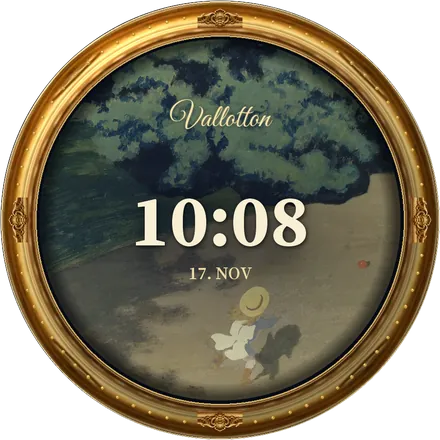
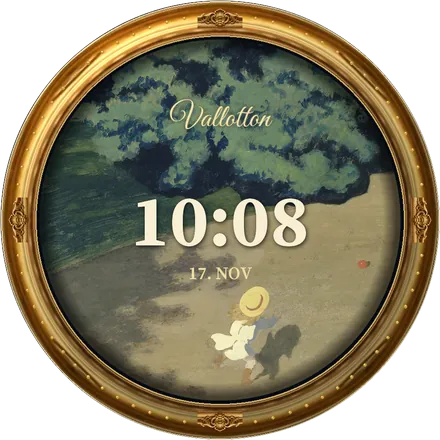
v10.33: selective light veil on watch-face hall images, ?v=1033

Changed region(s): [[0.1477, 0.2068, 0.8864, 0.8568], [0.65, 0.2364, 0.6795, 0.2659], [0.2068, 0.6795, 0.2364, 0.7091]]

diff --git a/index.html b/index.html
@@ -6,7 +6,7 @@
 <meta name="theme-color" content="#f6f3ee">
 <meta name="apple-mobile-web-app-capable" content="yes">
 <title>Meisterwerke – Malen nach Zahlen</title>
-<link rel="stylesheet" href="style.css?v=1032">
+<link rel="stylesheet" href="style.css?v=1033">
 <link rel="preload" href="fonts/GreatVibes.woff2" as="font" type="font/woff2" crossorigin>
 <link rel="icon" href="icons/icon-192.png" type="image/png">
 <link rel="manifest" href="manifest.webmanifest">
@@ -60,7 +60,7 @@
     <footer class="gfoot">
       <button id="srcBtn" class="linkbtn" data-i18n-html="sourcesBtn">Bildquellen &amp; Hinweise</button>
       <a class="linkbtn" href="privacy.html" data-i18n="privacyLink">Datenschutz</a>
-      <div class="credit"><span class="byline" data-i18n="byline">von Masilano</span><span class="ver" data-i18n="version">Testversion 10.32</span></div>
+      <div class="credit"><span class="byline" data-i18n="byline">von Masilano</span><span class="ver" data-i18n="version">Testversion 10.33</span></div>
     </footer>
   </div>
 </section>
@@ -541,9 +541,9 @@
   </div>
 </div>
 
-<script src="paintings.js?v=1032"></script>
-<script src="story.js?v=1032"></script>
-<script src="path-index.js?v=1032"></script>
+<script src="paintings.js?v=1033"></script>
+<script src="story.js?v=1033"></script>
+<script src="path-index.js?v=1033"></script>
 <script data-src="path-vangogh.js"></script>
 <script data-src="music-vangogh.js"></script>
 <script data-src="path-monet.js"></script>
@@ -635,12 +635,12 @@
 <script data-src="es-content.js"></script>
 <script data-src="fr-content.js"></script>
 <script data-src="it-content.js"></script>
-<script src="i18n.js?v=1032"></script>
-<script src="levels.js?v=1032"></script>
-<script src="music.js?v=1032"></script>
-<script src="zifferblaetter.js?v=1032"></script>
+<script src="i18n.js?v=1033"></script>
+<script src="levels.js?v=1033"></script>
+<script src="music.js?v=1033"></script>
+<script src="zifferblaetter.js?v=1033"></script>
 <script src="rankings.js?v=1029"></script>
-<script src="app.js?v=1032"></script>
+<script src="app.js?v=1033"></script>
 <script>
 /* v10.28: if a mixed cache leaves raw i18n keys in the UI, restore markup fallbacks. */
 (function(){

diff --git a/sw.js b/sw.js
@@ -1,5 +1,5 @@
 /* Meisterwerke – Malen nach Zahlen service worker. Generated by tools/build.py, do not edit by hand. */
-const VERSION = 'v1032';
+const VERSION = 'v1033';
 const CACHE = 'masilano-farben-' + VERSION;
 const SHELL = ["./", "achievements.css", "achievements.js", "app.js", "fonts/GreatVibes.woff2", "fonts/OFL-GreatVibes.txt", "i18n.js", "icon.svg", "icons/apple-touch-icon.png", "icons/icon-192.png", "icons/icon-512.png", "icons/icon-maskable-192.png", "icons/icon-maskable-512.png", "img/frame-baroque-gold-wide.webp", "img/frame-baroque-gold.webp", "img/frame-baroque-tile.webp", "img/frame-ivory-gold.webp", "img/paper.png", "index.html", "levels.js", "manifest.webmanifest", "music.js", "paintings.js", "path-ancher.js", "path-anker-p2.js", "path-anker.js", "path-blau.js", "path-calame.js", "path-cezanne-p2.js", "path-cezanne.js", "path-diday.js", "path-egner.js", "path-friedrich-p2.js", "path-friedrich.js", "path-giacometti.js", "path-hiroshige-p2.js", "path-hiroshige.js", "path-hodler-p2.js", "path-hodler.js", "path-hokusai-p2.js", "path-hokusai.js", "path-index.js", "path-klimt-p2.js", "path-klimt.js", "path-koller.js", "path-monet-p2.js", "path-monet-p3.js", "path-monet.js", "path-moser.js", "path-pissarro-p2.js", "path-pissarro.js", "path-rembrandt-p2.js", "path-rembrandt.js", "path-renoir-p2.js", "path-renoir.js", "path-schindler.js", "path-segantini.js", "path-sisley-p2.js", "path-sisley.js", "path-spitzweg.js", "path-turner-p2.js", "path-turner.js", "path-vallotton.js", "path-vangogh.js", "path-wisinger.js", "path-wolf.js", "path-zuend.js", "privacy.html", "rankings.js", "shop-config.js", "shop-res.js", "shop.css", "shop.js", "story.js", "style.css", "zifferblaetter.js"];
 const ASSET_Q = '?v=' + String(VERSION).replace(/^v/, '');

diff --git a/i18n.js b/i18n.js
@@ -15,7 +15,7 @@
       searchClear: 'Suche löschen',
       sourcesBtn: 'Bildquellen & Hinweise',
       privacyLink: 'Datenschutz',
-      version: 'Testversion 10.32',
+      version: 'Testversion 10.33',
       byline: 'von Masilano',
       back: 'Zurück',
       backGallery: 'Zurück zur Galerie',
@@ -267,7 +267,7 @@
       searchClear: 'Clear search',
       sourcesBtn: 'Picture sources & notes',
       privacyLink: 'Privacy',
-      version: 'Test version 10.32',
+      version: 'Test version 10.33',
       byline: 'by Masilano',
       back: 'Back',
       backGallery: 'Back to the gallery',
@@ -519,7 +519,7 @@
       searchClear: "Borrar búsqueda",
       sourcesBtn: "Fuentes e indicaciones",
       privacyLink: "Privacidad",
-      version: "Versión de prueba 10.32",
+      version: "Versión de prueba 10.33",
       byline: "de Masilano",
       back: "Atrás",
       backGallery: "Volver a la galería",
@@ -771,7 +771,7 @@
       searchClear: "Effacer la recherche",
       sourcesBtn: "Sources et notes",
       privacyLink: "Confidentialité",
-      version: "Version d’essai 10.32",
+      version: "Version d’essai 10.33",
       byline: "par Masilano",
       back: "Retour",
       backGallery: "Retour à la galerie",
@@ -1023,7 +1023,7 @@
       searchClear: "Cancella la ricerca",
       sourcesBtn: "Fonti e note",
       privacyLink: "Privacy",
-      version: "Versione di prova 10.32",
+      version: "Versione di prova 10.33",
       byline: "di Masilano",
       back: "Indietro",
       backGallery: "Torna alla galleria",

diff --git a/app.js b/app.js
@@ -3305,14 +3305,14 @@ function loadShop(){
     if (!document.querySelector('link[data-shop-css]')) {
       const l = document.createElement('link');
       l.rel = 'stylesheet';
-      l.href = 'shop.css?v=1032';
+      l.href = 'shop.css?v=1033';
       l.setAttribute('data-shop-css', '1');
       document.head.appendChild(l);
     }
     const need = [];
-    if (!window.MASILANO_SHOP_CONFIG) need.push('shop-config.js?v=1032');
-    if (!window.MASILANO_SHOP_RES) need.push('shop-res.js?v=1032');
-    need.push('shop.js?v=1032');
+    if (!window.MASILANO_SHOP_CONFIG) need.push('shop-config.js?v=1033');
+    if (!window.MASILANO_SHOP_RES) need.push('shop-res.js?v=1033');
+    need.push('shop.js?v=1033');
     let i = 0;
     const next = () => {
       if (i >= need.length) {
@@ -3380,7 +3380,7 @@ bindShopEntries();
 let swReload = false;
 if ('serviceWorker' in navigator && (location.protocol === 'https:' || location.hostname === 'localhost' || location.hostname === '127.0.0.1')) {
   const hadCtrl = !!navigator.serviceWorker.controller;
-  navigator.serviceWorker.register('./sw.js?v=1032', { scope: './' }).catch(e => console.warn('SW', e));
+  navigator.serviceWorker.register('./sw.js?v=1033', { scope: './' }).catch(e => console.warn('SW', e));
   function requestSwReload(){
     if (!hadCtrl) return;           // first install: nothing to reload
     if (S) swReload = true; else location.reload();

diff --git a/zifferblaetter.js b/zifferblaetter.js
@@ -179,7 +179,7 @@
   function esc(s){ return String(s == null ? '' : s).replace(/[&<>"']/g, c => ({'&':'&amp;','<':'&lt;','>':'&gt;','"':'&quot;',"'":'&#39;'})[c]); }
   function loc(o){ return (o && (o[lang()] || o.de)) || ''; }
   function face(id){ return FACES.find(f => f.id === id) || null; }
-  var IMGV = '?v=1032';
+  var IMGV = '?v=1033';
   function img(f){ return 'img/faces/' + f.id + '.webp' + IMGV; }
   function appleImg(f){ return 'img/watch-apple/' + f.id + '.jpg' + IMGV; }
   function appleFile(f){ return 'Masilano-' + f.id + '.jpg'; }
